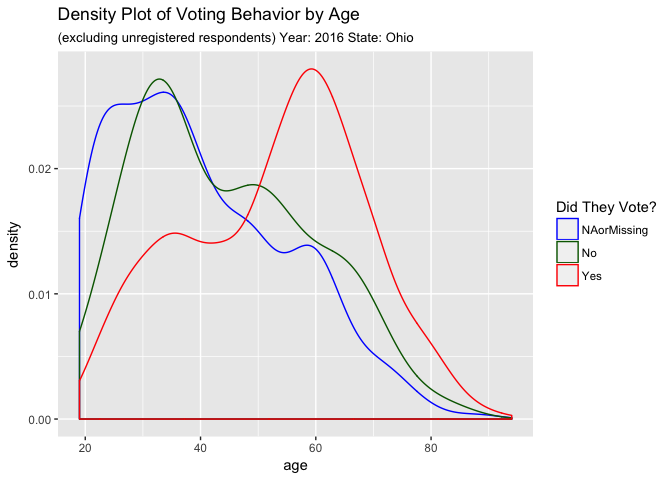
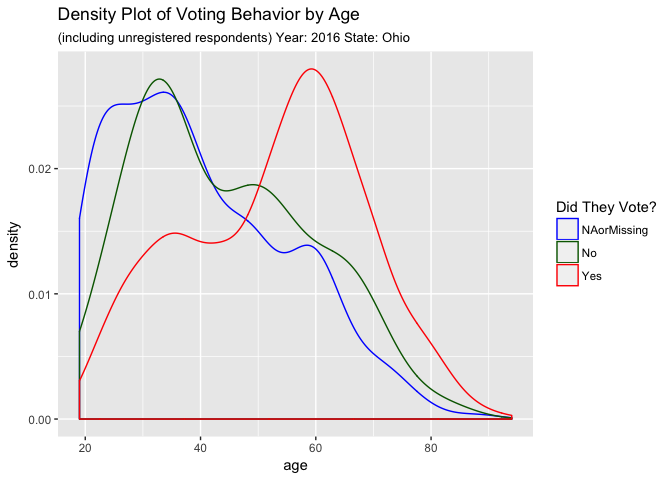
including not excluding

Changed region(s): [[0.0938, 0.0625, 0.625, 0.0938]]

diff --git a/Viz/Poster_Viz.md b/Viz/Poster_Viz.md
@@ -35,7 +35,7 @@ select(weight, age, voted, party, registered, method_vote)
 
 ``` r
 # First visualizaton: visualizing voter density by age
-ggplot(vote16complete, aes(age, col = voted)) + geom_density() + ggtitle('Density Plot of Voting Behavior by Age', subtitle =  '(excluding unregistered respondents) Year: 2016 State: Ohio') + labs(col = "Did They Vote?") + scale_color_manual(values=c("blue", "#006400","red"), name="Did They Vote?", breaks=c("NAorMissing", "no", "yes"),  labels=c("NAorMissing", "No", "Yes"))
+ggplot(vote16complete, aes(age, col = voted)) + geom_density() + ggtitle('Density Plot of Voting Behavior by Age', subtitle =  '(including unregistered respondents) Year: 2016 State: Ohio') + labs(col = "Did They Vote?") + scale_color_manual(values=c("blue", "#006400","red"), name="Did They Vote?", breaks=c("NAorMissing", "no", "yes"),  labels=c("NAorMissing", "No", "Yes"))
 ```
 
 ![](Poster_Viz_files/figure-markdown_github/unnamed-chunk-3-1.png)
